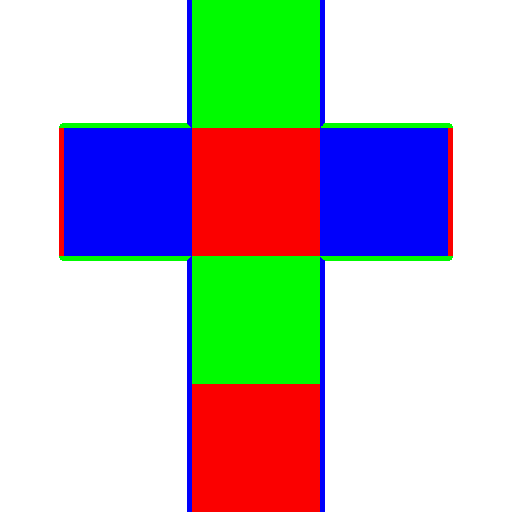
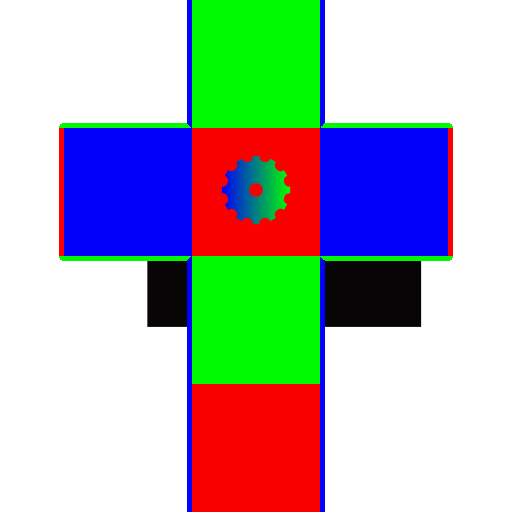
feat(shader): implement gradient color blending using a weighted mask and bilinear filtering to support smooth transitions

Changed region(s): [[0.625, 0.5, 0.8438, 0.6562], [0.4375, 0.3125, 0.5625, 0.4375], [0.2812, 0.5, 0.375, 0.6562]]

diff --git a/src/index.ts b/src/index.ts
@@ -56,19 +56,21 @@ const fragmentShaderCode = `
   const vec3 defaultColor = vec3(0.1, 0.1, 0.1);
 
   void main(void) {
-    // --- FIX: The manual flip has been removed. We now use vUV directly. ---
+    // Sample the texture. With BILINEAR filtering, this color will be smoothly interpolated.
     vec4 idColor = texture2D(textureSampler, vUV);
-    vec3 outputColor;
 
-    if (idColor.r > 0.9 && idColor.g < 0.1 && idColor.b < 0.1) {
-      outputColor = colorForRed;
-    } else if (idColor.g > 0.9 && idColor.r < 0.1 && idColor.b < 0.1) {
-      outputColor = colorForGreen;
-    } else if (idColor.b > 0.9 && idColor.r < 0.1 && idColor.g < 0.1) {
-      outputColor = colorForBlue;
-    } else {
-      outputColor = defaultColor;
-    }
+    // Use the R, G, and B channels from the texture as weights to blend your target colors.
+    // This mathematical approach naturally handles gradients.
+    vec3 blendedColor = idColor.r * colorForRed +
+                        idColor.g * colorForGreen +
+                        idColor.b * colorForBlue;
+
+    // Calculate the total influence of the mask.
+    float totalMask = clamp(idColor.r + idColor.g + idColor.b, 0.0, 1.0);
+
+    // Linearly interpolate between the default dark color and your new blended color
+    // based on the mask's total intensity.
+    vec3 outputColor = mix(defaultColor, blendedColor, totalMask);
 
     gl_FragColor = vec4(outputColor, 1.0);
   }
@@ -97,8 +99,10 @@ const createScene = async () => {
     scene,
     true, // noMipmap
     false, // invertY
-    Texture.NEAREST_SAMPLINGMODE // samplingMode
+    // --- FIX: Use BILINEAR filtering for smooth gradients ---
+    Texture.BILINEAR_SAMPLINGMODE // samplingMode
   );
+  
   
   shaderMaterial.setTexture("textureSampler", idTexture);
 
